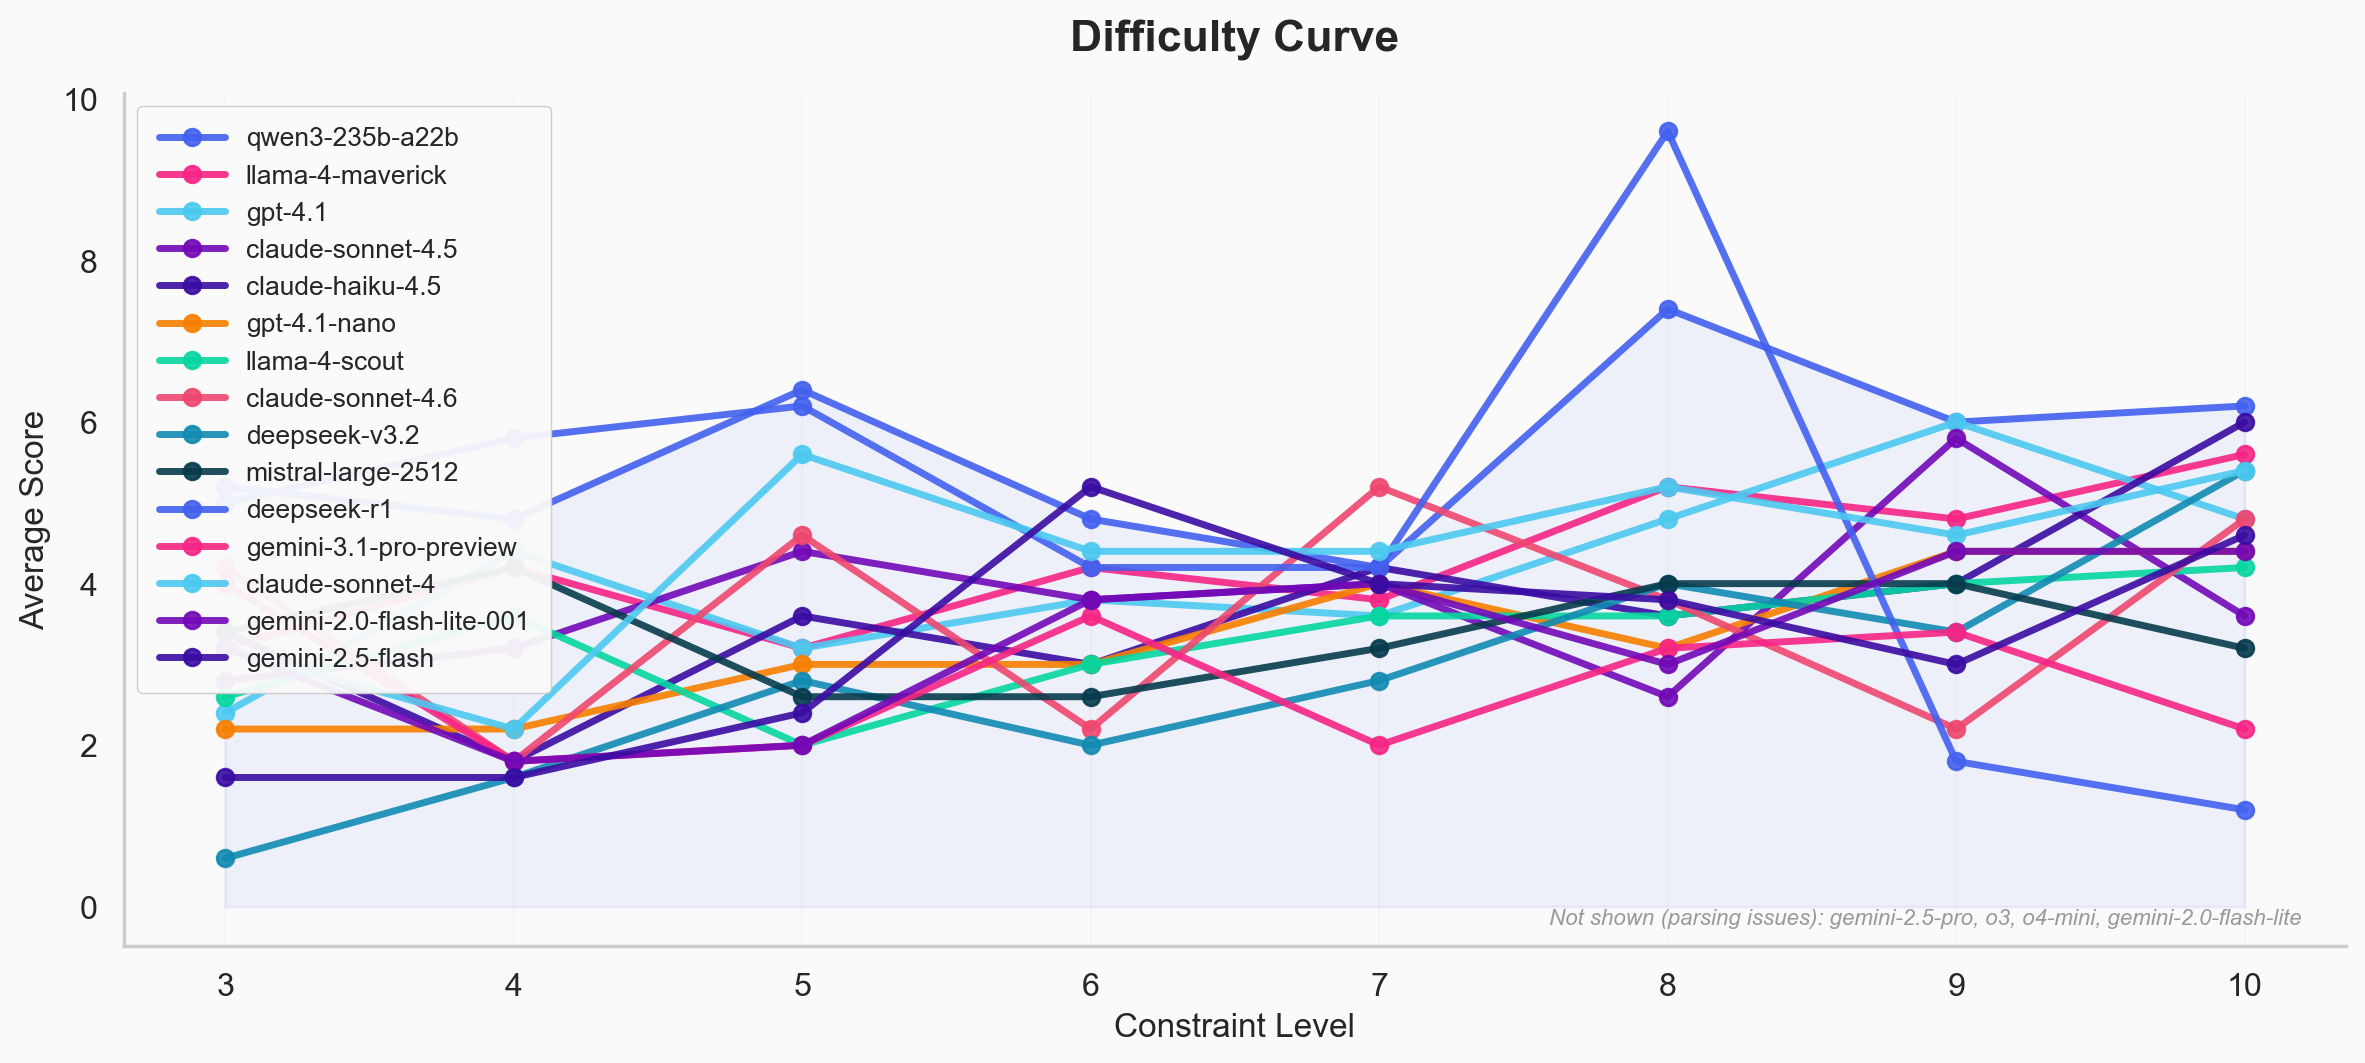
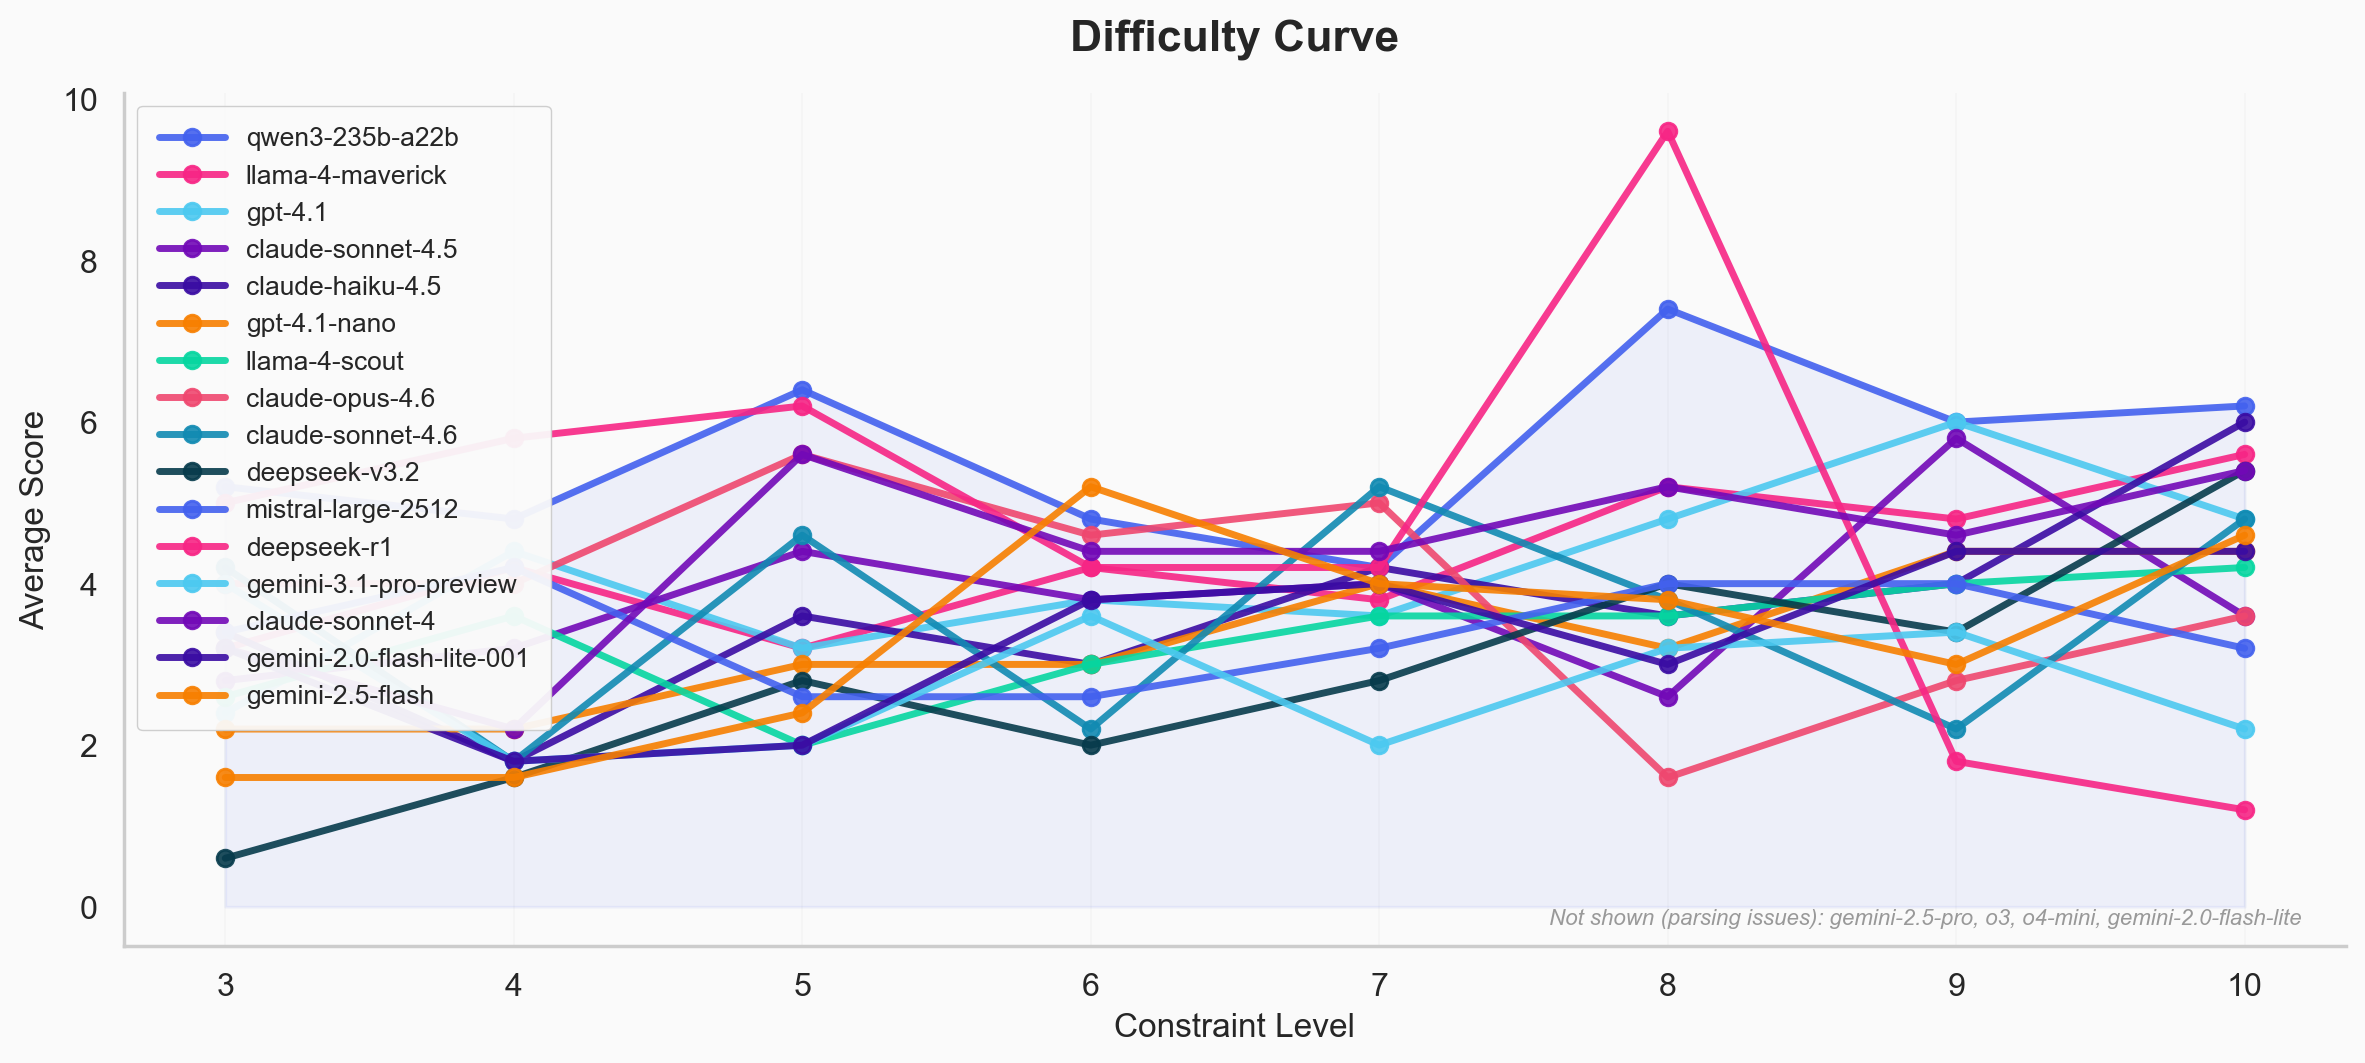
Add claude-opus-4.6 benchmark results
Score: 257, Validity: 37.1%, Perfect: 13.8% (levels 3-15, 5 trials)
Ranks #8 overall - between llama-4-scout and claude-sonnet-4.6.

diff --git a/README.md b/README.md
@@ -35,13 +35,14 @@ Levels 3-15 | 5 trials per level | temperature 0.0
 | 5 | claude-haiku-4.5 | 303 | 50.9% | 3.1% |
 | 6 | gpt-4.1-nano | 270 | 45.8% | 1.5% |
 | 7 | llama-4-scout | 259 | 43.2% | 3.1% |
-| 8 | claude-sonnet-4.6 | 253 | 39.9% | 7.7% |
-| 9 | deepseek-v3.2 | 251 | 43.0% | 0.0% |
-| 10 | mistral-large-2512 | 246 | 39.7% | 6.2% |
-| 11 | deepseek-r1 | 245 | 33.5% | 16.9% |
-| 12 | gemini-3.1-pro-preview | 183 | 28.8% | 6.2% |
-| 13 | o3 | 12 | 1.0% | 3.1% |
-| 14 | o4-mini | 6 | 0.5% | 1.5% |
+| 8 | claude-opus-4.6 | 257 | 37.1% | 13.8% |
+| 9 | claude-sonnet-4.6 | 253 | 39.9% | 7.7% |
+| 10 | deepseek-v3.2 | 251 | 43.0% | 0.0% |
+| 11 | mistral-large-2512 | 246 | 39.7% | 6.2% |
+| 12 | deepseek-r1 | 245 | 33.5% | 16.9% |
+| 13 | gemini-3.1-pro-preview | 183 | 28.8% | 6.2% |
+| 14 | o3 | 12 | 1.0% | 3.1% |
+| 15 | o4-mini | 6 | 0.5% | 1.5% |
 
 > **Note:** o3, o4-mini, and gemini-2.5-pro score near zero due to response format issues - their reasoning output breaks sentence extraction. This is a known issue being investigated.
 
